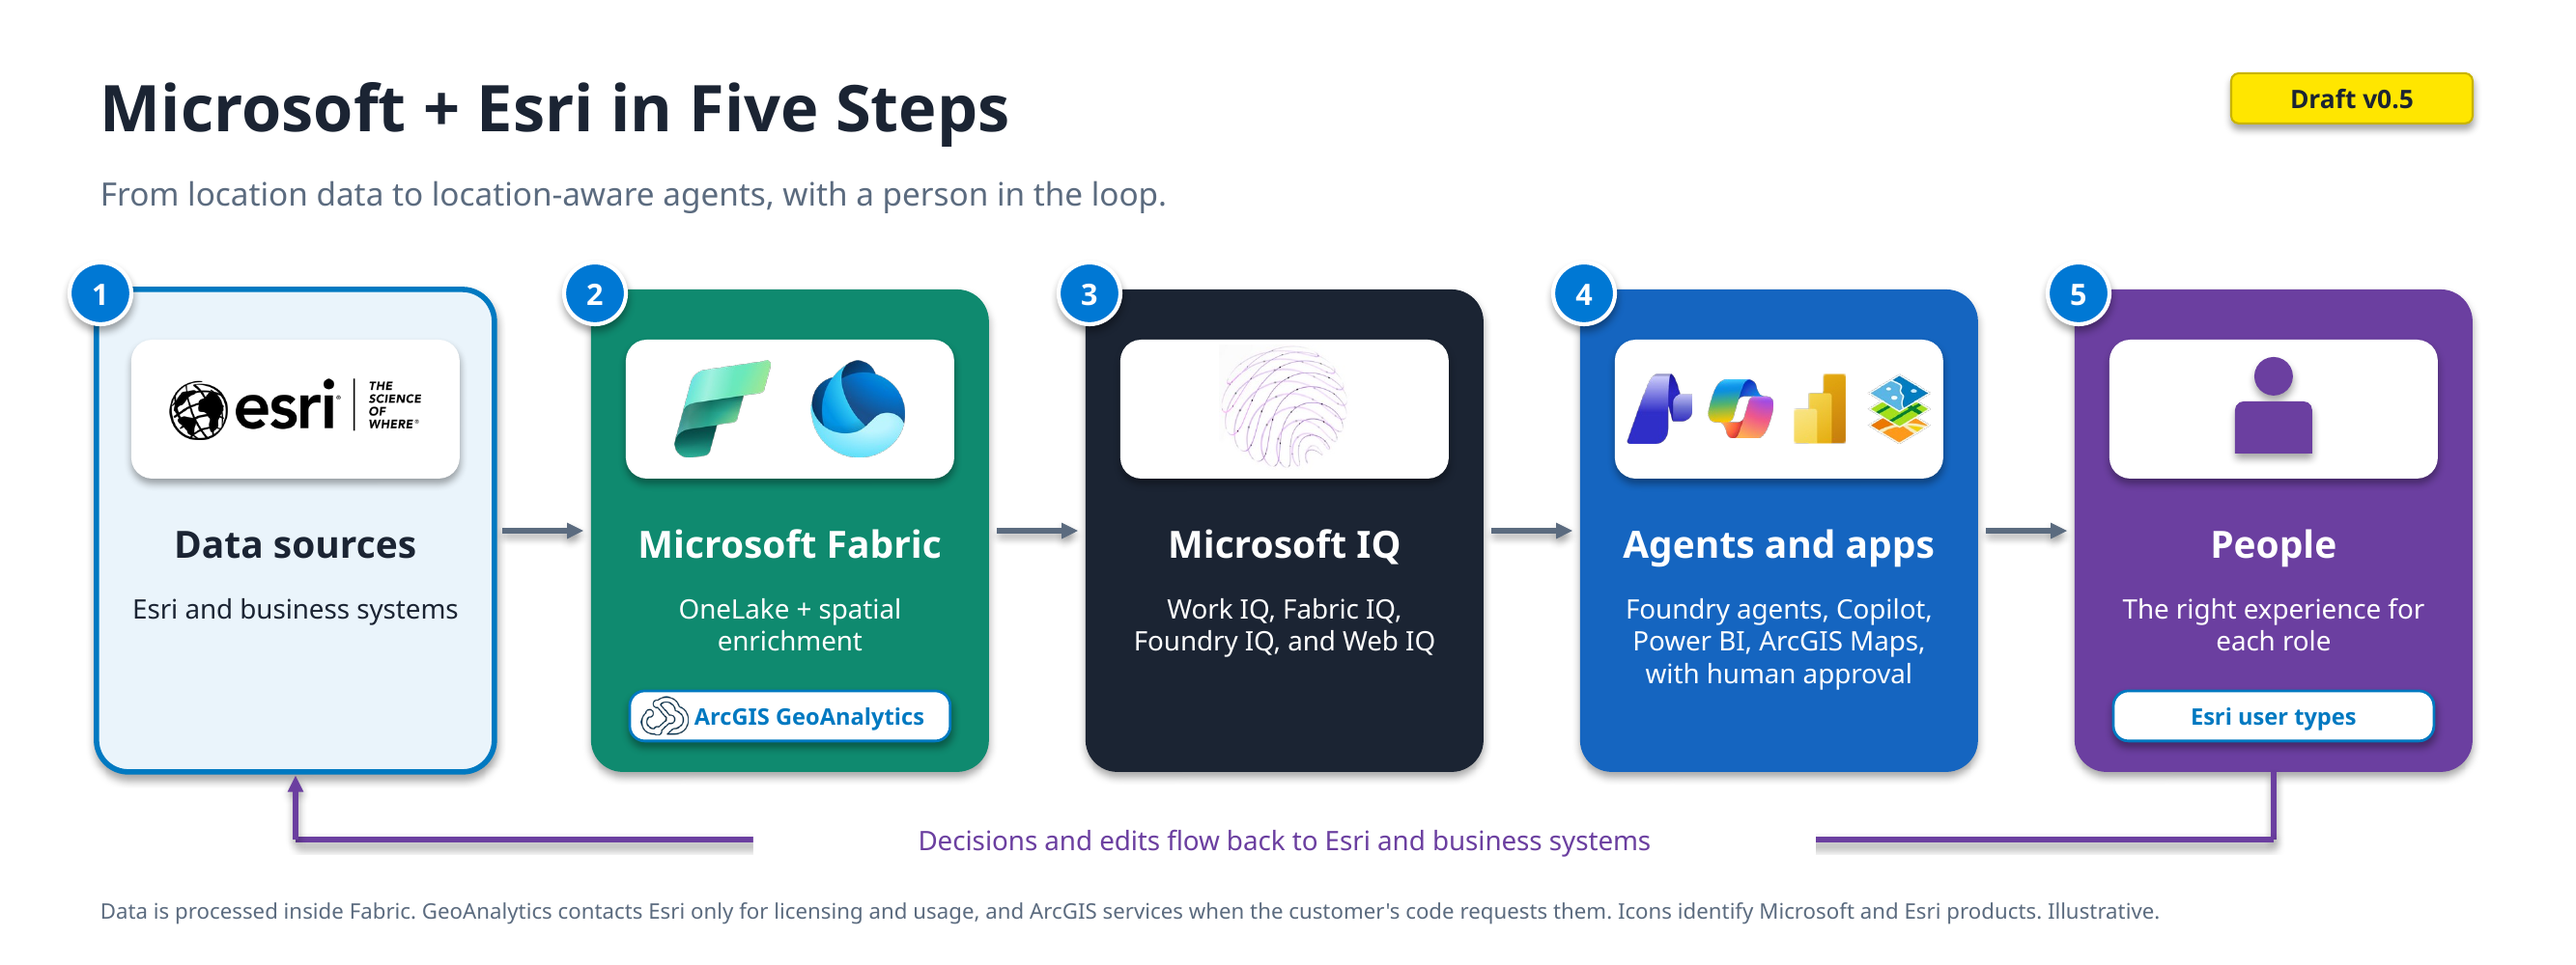
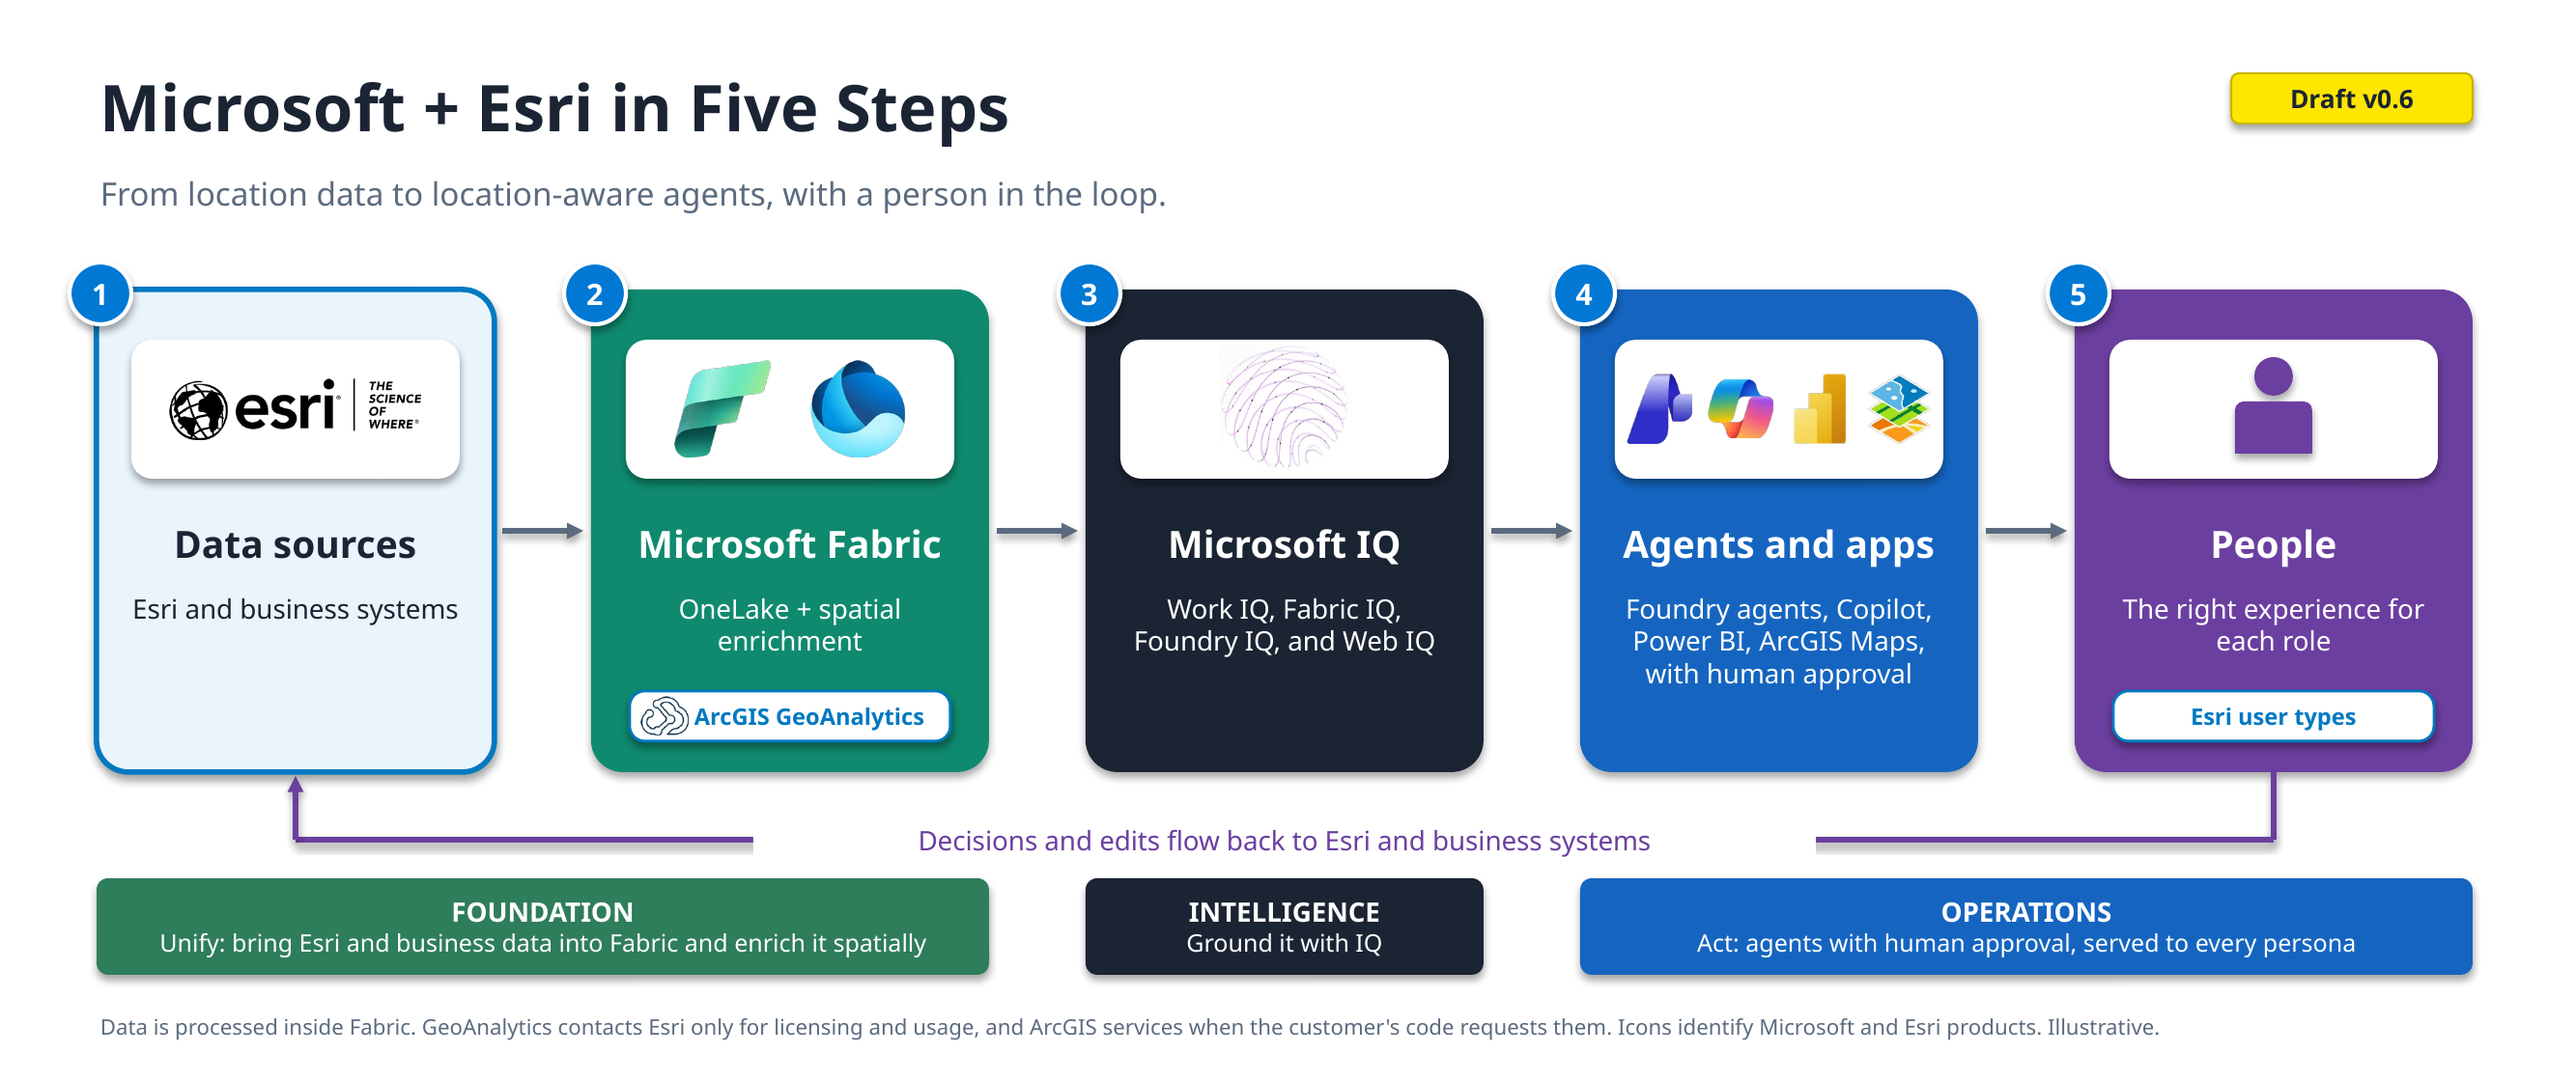
Foundation: five-step diagram v0.6 adds Foundation/Intelligence/Operations band; update appendix

diff --git a/01-Microsoft-Esri-Foundation/Appendix-Reading-the-Diagrams.md b/01-Microsoft-Esri-Foundation/Appendix-Reading-the-Diagrams.md
@@ -17,6 +17,7 @@ This appendix explains the visual elements in the two diagrams on the [Microsoft
 | Esri user types chip | Each persona is matched to the Esri user type it typically needs (illustrative). |
 | Gray arrows | Data and context moving forward from one step to the next. |
 | Purple loop | Decisions and edits flowing back to Esri and business systems. |
+| Foundation, Intelligence, Operations band | The adoption path: **Foundation** spans steps 1 and 2, **Intelligence** step 3, and **Operations** steps 4 and 5. It matches the band on the detailed view. |
 | Footnote | Data is processed inside Fabric. GeoAnalytics contacts Esri only for licensing and usage, and ArcGIS services only when the customer's code requests them ([Evidence SEC-007 to SEC-009](../02-GeoAnalytics-for-Fabric/records/Evidence.md)). |
 
 ---

diff --git a/01-Microsoft-Esri-Foundation/README.md b/01-Microsoft-Esri-Foundation/README.md
@@ -1,6 +1,6 @@
 # Microsoft + Esri Foundation
 
-> **Status:** In progress. The five-step diagram (v0.5) and the detailed view (v0.11) are drafts; the integration landscape is current.
+> **Status:** In progress. The five-step diagram (v0.6) and the detailed view (v0.11) are drafts; the integration landscape is current.
 
 ## Purpose
 
